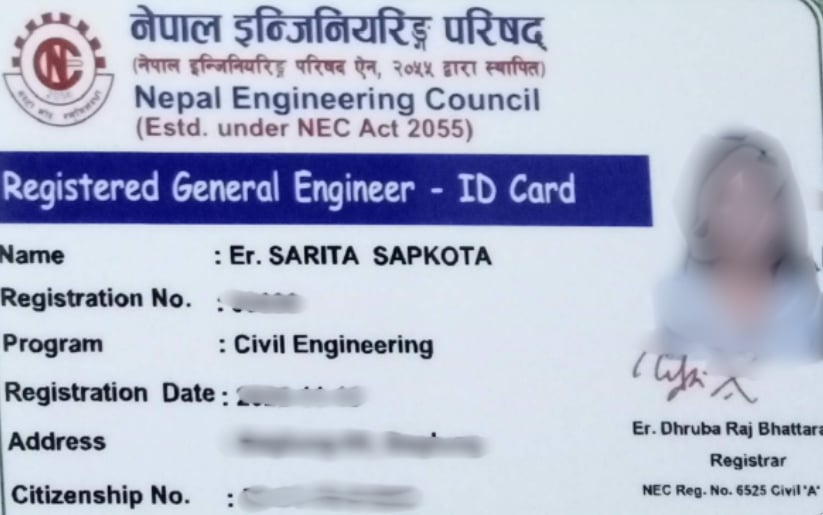
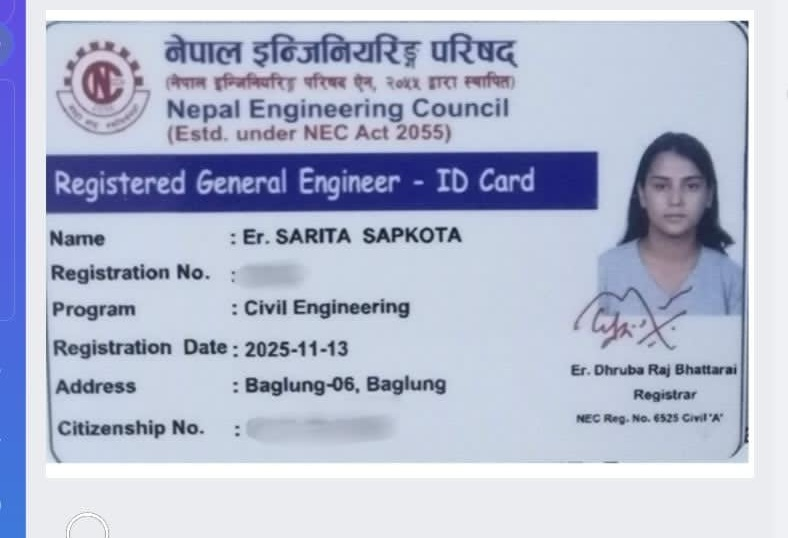
liscnense , tech and hero section changes done

diff --git a/src/constants/index.js b/src/constants/index.js
@@ -296,10 +296,10 @@ const experiences = [
     iconBg: "#383E56",
     date: "Apr 2025 - Jul 2025",
     points: [
-      "Multi Scale Deep Learning for Hairline Crack Detection and Analysis using Hybrid CNN and Transformer architecture.",
-      "Developed a hybrid CNN-Transformer model to automate structural crack detection and classification, aiming to improve predictive maintenance in civil infrastructure.",
-      "Conducted under the mentorship of Prof. Dr. Sudan Jha, in collaboration with Ravi Kumar Pajiyar.",
-      "Research paper submitted for publication, focusing on multiscale feature extraction and global context understanding.",
+      "Led the civil engineering side of a multi-scale deep learning study for hairline crack detection, ensuring the research addressed real structural inspection and deterioration challenges.",
+      "Designed the engineering validation framework, linking model outputs to crack morphology, width, and propagation behavior rather than relying on computational metrics alone.",
+      "Directed field data collection across concrete structures in Nepal and conducted the literature review on conventional and AI-based crack detection methods.",
+      "Conducted under the mentorship of Prof. Dr. Sudan Jha, in collaboration with Ravi Kumar Pajiyar. Research paper ongoing, focusing on field-validated crack detection for structural health monitoring.",
     ],
   },
   {
@@ -310,9 +310,9 @@ const experiences = [
     date: "2024 - 2025",
     points: [
       "Potential Study of Medium Hydropower Project of Nepal: A Case Study of Kabeli-A HEP.",
-      "Conducted under the supervision of Dr. Shyam Sundar Khadka.",
-      "Analyzed the hydrological, hydraulic, and structural components of the Kabeli-A Hydroelectric Project.",
+      "Conducted under the supervision of Dr. Shyam Sundar Khadka, analyzing the hydrological, hydraulic, and structural components of the Kabeli-A Hydroelectric Project.",
       "Evaluated economic feasibility to optimize power generation potential.",
+      "Prepared detailed technical report covering feasibility analysis, design parameters, and project recommendations.",
     ],
   },
   {
@@ -466,7 +466,7 @@ const projects = [
     ],
     image: finalcover, // replace with actual imported image variable
     report: Finalyear_Report, // update if you have the file path
-    source_code_link: "https://github.com/saritasapkota123/FINAL-YEAR-MAJOR-PROJECT-",
+    source_code_link: "https://github.com/saritasapkota123/THESIS-Kabeli-Hydropower-Project",
   },
   
   {
@@ -558,27 +558,27 @@ const projects = [
     report: trishuli_report,
     source_code_link: "https://github.com/saritasapkota123/Trishuli-Hydropower-Topography-Model",
   },
-  {
-    name: "Soak Pit Tank for Greywater Management – Engineers Without Borders",
-    description:
-      "Conducted soil percolation (infiltration rate) testing and topographic surveys to design and implement a soak pit tank for sustainable greywater management at a landslide-impacted government school in Nepal, under Engineers Without Borders.",
-    tags: [
-      {
-        name: "water-management",
-        color: "blue-text-gradient",
-      },
-      {
-        name: "environmental-engineering",
-        color: "green-text-gradient",
-      },
-      {
-        name: "fieldwork",
-        color: "pink-text-gradient",
-      },
-    ],
-    image: footings,
-    source_code_link: "https://github.com/saritasapkota123",
-  },
+  // {
+  //   name: "Soak Pit Tank for Greywater Management – Engineers Without Borders",
+  //   description:
+  //     "Conducted soil percolation (infiltration rate) testing and topographic surveys to design and implement a soak pit tank for sustainable greywater management at a landslide-impacted government school in Nepal, under Engineers Without Borders.",
+  //   tags: [
+  //     {
+  //       name: "water-management",
+  //       color: "blue-text-gradient",
+  //     },
+  //     {
+  //       name: "environmental-engineering",
+  //       color: "green-text-gradient",
+  //     },
+  //     {
+  //       name: "fieldwork",
+  //       color: "pink-text-gradient",
+  //     },
+  //   ],
+  //   image: footings,
+  //   source_code_link: "https://github.com/saritasapkota123",
+  // },
 ];
 const certificates = [
   // Professional Development Certifications

diff --git a/src/components/About.jsx b/src/components/About.jsx
@@ -52,11 +52,13 @@ const About = () => {
             variants={fadeIn("", "", 0.1, 1)}
             className="text-secondary text-[15px] sm:text-[17px] leading-[26px] sm:leading-[30px]"
           >
-            A recent Civil Engineering graduate from Kathmandu University, passionate about structural engineering and technology-driven Structural Health Monitoring. First author of a CIEES 2025 conference paper introducing CrackFormer, a hybrid CNN–Transformer model for detecting hairline cracks in concrete structures — led from concept through field validation to publication. Experienced in hydropower design, hydraulic modeling, geospatial analysis, and deep learning-based crack detection, with hands-on fieldwork across Nepal. Committed to advancing resilient and sustainable infrastructure through the intersection of engineering judgment and AI.
+            A Civil Engineering graduate from Kathmandu University, specializing in Hydropower, with a strong focus on structural engineering, water resources, and infrastructure assessment. Experienced in hydropower design, hydraulic modeling, geospatial analysis, and structural analysis, with hands-on fieldwork across Nepal. Committed to advancing resilient and sustainable infrastructure through sound engineering judgment and a growing interest in data-driven approaches to infrastructure monitoring.
           </motion.p>
 
           {/* Buttons Section */}
           <div className="mt-12 sm:mt-20 flex justify-start gap-4 sm:gap-8 flex-wrap">
+            {/* Download Resume - Commented out for now */}
+            {/*
             <motion.a
               href={sarita_sapkota}
               download
@@ -66,6 +68,7 @@ const About = () => {
             >
               Download Resume
             </motion.a>
+            */}
             {/* Digital Resume - Commented out for now */}
             {/*
             <motion.a
@@ -121,7 +124,8 @@ const About = () => {
                   <li>AutoCAD Design</li>
                   <li>Project Management</li>
                   <li>Structural Analysis</li>
-                  <li>Hydraulic Engineering</li>
+                  <li>Hydraulic Design</li>
+                  <li>Water Resources Engineering</li>
                 </ul>
           </motion.div>
          </div>

diff --git a/src/components/Hero.jsx b/src/components/Hero.jsx
@@ -133,7 +133,7 @@ const Hero = () => {
                 transition={{ duration: 0.8, delay: 0.6 }}
                 className="text-secondary text-[11px] sm:text-sm md:text-base lg:text-lg xl:text-xl leading-relaxed mb-4 sm:mb-6 lg:mb-8 px-1 sm:px-2 lg:px-0"
               >
-                A licensed Civil Engineer and recent Kathmandu University graduate specializing in Hydropower, with a strong focus on structural engineering and AI-driven Structural Health Monitoring. First author of a hybrid CNN–Transformer research paper on hairline crack detection, presented at CIEES 2025. Experienced in hydropower design, hydraulic modeling, geospatial analysis, and field-validated deep learning for infrastructure assessment — committed to resilient, sustainable infrastructure.
+                A licensed Civil Engineer and Kathmandu University graduate specializing in Hydropower, with a strong focus on structural engineering, water resources, and infrastructure assessment. Experienced in hydropower design, hydraulic modeling, geospatial analysis, and structural analysis, with an interest in applying data-driven approaches to infrastructure monitoring - committed to resilient, sustainable infrastructure.
               </motion.p>
 
               {/* Call-to-Action Buttons */}

diff --git a/src/components/Tech.jsx b/src/components/Tech.jsx
@@ -69,7 +69,6 @@ const Tech = () => {
                              <div key={skillIndex} className="mb-4">
                                 <div className="flex justify-between items-center mb-1">
                                  <p className="text-secondary text-xs sm:text-sm font-medium">{skill.name}</p>
-                                <p className="text-secondary text-xs sm:text-sm font-medium">{skill.level}%</p>
                                 </div>
                                  <div className="w-full bg-black-200 h-2 rounded-full">
                                    <div className="bg-gradient-to-r from-purple-500 to-pink-500 h-full rounded-full" style={{ width: `${skill.level}%` }} />

diff --git a/src/App.jsx b/src/App.jsx
@@ -96,7 +96,7 @@ const App = () => {
                 <Experience />
                 <Tech />
                 <Works />
-                <Graduation />
+                {/* <Graduation /> */}
                 {/* <MUrCS /> */}
                 <Certificates />
                 <HireMe />
